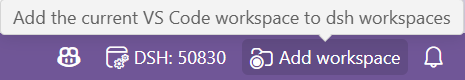
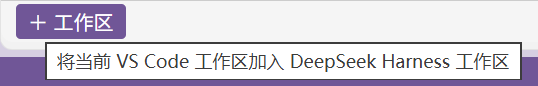
docs: 更换 README 截图、新增英文 README 与语言切换
- media/ 中 Add_workspace.png / DSH_port.png 更新为用户提供的新截图
- 新增 README.en.md（英文版全文）
- README.md（中文，默认展示）与英文版顶部互加语言切换链接：
  『中文 | English』/ 『中文 | English』

diff --git a/README.en.md b/README.en.md
@@ -1,0 +1,149 @@
+# DeepSeek Harness for VSCode Unofficial
+
+[中文](README.md) | **English**
+
+> ⚠ **Unofficial extension**: maintained by community developers, **not affiliated with DeepSeek AI or its official products**, and not published, endorsed, or supported by DeepSeek.
+
+An unofficial client that brings [DeepSeek Harness](https://github.com/deepseek-ai/deepseek-harness) (`dsh`, DeepSeek's open-source AI coding agent framework) into the VS Code sidebar.
+
+Two sidebar UIs (switch with `dsh.ui.mode`):
+
+- **embedded (default)**: embeds dsh's official Web UI in a sidebar iframe — full feature set
+- **native**: a custom chat UI built on the official JSON-RPC SDK — native VS Code feel
+
+## Quick Start
+
+### 1. Install
+
+Extensions panel → `...` → **Install from VSIX** → pick `dsh-vscode-0.1.0.vsix` from the [Releases](https://github.com/Mu-X-Yun/deepseek-harness-for-vscode-unofficial/releases) page.
+
+### 2. Open the Sidebar
+
+Click the **DSH whale icon** in the activity bar. The first launch auto-installs the dsh runtime and starts it (progress is shown; roughly a minute). Afterwards, Reload / restarts open instantly (the running dsh is reused).
+
+The status bar shows the dsh service state and port; click it to open the full UI in an external browser:
+
+![DSH status bar port](media/DSH_port.png)
+
+### 3. Configure the API Key
+
+Settings (`Ctrl+,`) → search `dsh.deepseekApiKey` → enter your DeepSeek API Key (or let the extension inherit `DEEPSEEK_API_KEY` from the host environment).
+
+### 4. Start Chatting
+
+Type a question in the sidebar to converse with the dsh agent (embedded mode gives the full official Web UI: sessions, tool calls, model selection, and more).
+
+**Add the current workspace to dsh workspaces**: click the **Add workspace** button in the sidebar footer to adopt the folder currently open in VS Code (sessions then belong to that workspace):
+
+![Add workspace button](media/Add_workspace.png)
+
+Other commands (Command Palette `Ctrl+Shift+P`):
+
+| Command | Description |
+|---|---|
+| `DSH: Open in Secondary Sidebar` | Open in the right-side secondary sidebar (both can be shown, state synced) |
+| `DSH: Open in browser` | Open the full UI in an external browser |
+| `DSH: Show server logs` | View dsh process and extension logs (troubleshooting) |
+| `DSH: Stop server` | Stop the dsh server |
+
+## Relationship with Official DeepSeek Harness (dsh)
+
+This extension is a **third-party VS Code client** for the official [DeepSeek Harness](https://github.com/deepseek-ai/deepseek-harness) (`dsh`, an MIT-licensed open-source project by DeepSeek AI):
+
+- **No official source code included or modified**: the extension contains no dsh code and applies no patches; dsh's source, copyright, and release belong to DeepSeek AI.
+- **How it drives dsh**: the extension starts the dsh installed on your machine (auto-installed, globally installed, or a source checkout) and drives it through public interfaces:
+  - **embedded mode**: spawns `dsh web` and embeds the official Web UI in a sidebar iframe (the UI itself is dsh's official UI)
+  - **native mode**: drives the dsh runtime via the official JSON-RPC SDK (`@deepseek-ai/dsh-sdk-client`)
+- **You provide**: a DeepSeek API Key (the dsh runtime can be auto-installed by the extension).
+- **Upstream dependency**: dsh is in developer preview (0.1.0-rc.x); upstream updates may change behavior and affect this extension — out of this project's control.
+
+## Getting the dsh Runtime (three options)
+
+`dsh.runtime.mode` decides where the dsh runtime comes from:
+
+| Mode | Description | Best for |
+|---|---|---|
+| `auto-install` (default) | First launch runs `npm install @deepseek-ai/dsh` into the extension storage; reused afterwards | Out-of-the-box (recommended) |
+| `installed` | **Auto-detects** an installed dsh: global install (`npm i -g @deepseek-ai/dsh`) or the npx cache (after running `npx @deepseek-ai/dsh web` once); `dsh.runtime.path` can override | Users who already have dsh |
+| `repo` | Runs from the `deepseek-harness-master` source checkout | Developing/debugging dsh itself |
+
+Default `auto-install` works for most users; switch to `installed` to reuse an existing dsh:
+```sh
+npm i -g @deepseek-ai/dsh   # then set dsh.runtime.mode: installed
+```
+
+> ℹ **Mode applicability**: `installed` / `auto-install` support **embedded mode** (the npm package runs `dsh web` fully; verified). **native mode** currently requires `repo` — the upstream npm package (`dsh-sdk-jsonrpc-demo`) does not bundle the cordis.yml plugin dependencies (llm-deepseek, agent-spine, etc.), so it cannot run standalone in npm form.
+
+## Settings
+
+| Setting | Default | Description |
+|---|---|---|
+| `dsh.deepseekApiKey` | (inherit env) | DeepSeek API Key, injected into the spawn environment |
+| `dsh.deepseekBaseUrl` | — | Optional custom endpoint; only honored from the process environment |
+| `dsh.runtime.mode` | `auto-install` | `auto-install` / `installed` (detect global/npx) / `repo` (source checkout) |
+| `dsh.runtime.path` | auto-detect | Absolute runtime path (repo checkout or a node_modules root containing dsh) |
+| `dsh.runtime.nodePath` | `node` (PATH) | Node executable used to spawn dsh. **Must be the system Node** (`process.execPath` points at Code.exe in the extension host, whose bundled node breaks tsx's tsconfig-paths resolution) |
+| `dsh.permissionMode` | `workspace-write` | Injected as `DSH_PERMISSION_MODE` |
+| `dsh.model` | `deepseek-v4-flash` | Default model for new sessions |
+| `dsh.ui.mode` | `embedded` | Sidebar UI: `embedded` (iframe) / `native` (custom chat UI) |
+
+## Prerequisites
+
+- VS Code `^1.85.0`
+- Node.js `^22.19 || >=24` (dsh's engine requirement)
+- pnpm (repo mode only: building dsh from source)
+
+## Known Limitations
+
+- dsh is in developer preview (0.1.0-rc.x); compatibility may change; the extension pins its version.
+- The embedded UI is dsh's own Web UI — its theme does not fully match VS Code (native mode addresses this).
+- The embedded iframe captures keyboard focus; some VS Code shortcuts are unavailable inside the chat area.
+- In native mode, `stopAgent` terminates and rebuilds the runtime (the protocol has no mid-turn cancel; in-flight progress is lost); session history after an extension restart is read-only (no session resume in the protocol).
+- Native mode has no interactive permission prompts (no permission-request method in the JSON-RPC protocol); under `dsh.permissionMode: workspace-write` dangerous commands are effectively denied — switch to `danger-full-access` to allow them.
+- The dsh process stays running after VS Code closes (so next start is instant); use `DSH: Stop server` to stop it manually.
+
+## Architecture Highlights
+
+- **Process ownership**: `dsh web` (embedded) and `dsh-jsonrpc-agent` (native) children are owned by the Extension Host and survive sidebar view disposal; **reused across Reloads** (state persisted to extension storage, health-checked for instant reuse); on Windows, teardown uses `taskkill /T /F` on the process tree.
+- **Readiness detection**: embedded mode parses dsh stdout for the `dsh web: http://127.0.0.1:<port>` ready line (`--port 0` = random port) instead of port polling.
+- **State sync**: host broadcast + webview ready handshake + 15s poll fallback — any lost state push self-heals.
+- **Embed security**: the iframe and the dsh service are same-origin (127.0.0.1), passing dsh's browser-trust fence; the server sets no CSP / X-Frame-Options, so embedding is not blocked.
+- **Key injection**: `DEEPSEEK_API_KEY` / `DEEPSEEK_BASE_URL` / `DSH_*` are injected only via the spawn environment — matching dsh's BOOTSTRAP constraints (forbidden from `.env`).
+- **Dependency fix**: npm sharp 0.35.3 is a broken release (binary fails to load); the extension pins 0.35.2 via npm overrides (auto-install handles it; installed mode detects and advises).
+- **Native runtime**: `dsh-jsonrpc-agent` launches from the repo via tsx (`node --import tsx/esm`); the generated cordis.yml lives in extension global storage, resolving plugins through a Windows junction to `examples/node_modules` (same mechanism as dsh's `healProfilesModuleFallback`).
+- **Native event stream**: `DeepSeekHarness` owns the subprocess; `HarnessClient.subscribe()` streams `session.event` / `session.status` / `subagent.*` notifications; the renderer follows the wire structure (envelope `data` field) with streaming folding, seq dedup, and compaction replay.
+
+## Development (repo mode)
+
+The extension runs dsh from the `deepseek-harness-master/` source checkout (auto-detected as a sibling directory of the extension; `dsh.runtime.path` can override):
+
+```sh
+# 1. Prepare the dsh source once
+cd deepseek-harness-master
+pnpm install
+pnpm run build:lib:host && pnpm run build:lib:client   # or pnpm run build
+pnpm run build:web          # produces apps/web/dist; dsh fails to start without it
+
+# 2. Install and launch the extension (F5, Extension Development Host)
+cd dsh-vscode
+npm install
+npm run watch               # esbuild watch (launch.json's preLaunchTask runs it)
+```
+
+## Testing
+
+```sh
+npm test    # vitest: renderer/parser/runtime-detection unit tests + SDK handshake + real-chat e2e (skipped without a key)
+```
+`tests/native-chat.e2e.spec.ts` runs a full conversation against the real API (requires the `DEEPSEEK_API_KEY` environment variable).
+
+## Packaging
+
+```sh
+npm run package    # esbuild build + vsce package → dsh-vscode-0.1.0.vsix
+```
+The VSIX does not bundle the dsh runtime (`auto-install` mode installs it into the extension storage on first launch).
+
+## License
+
+[MIT](LICENSE) — this project (the extension itself) is an independent open-source project. Note: DeepSeek Harness (`dsh`) is an MIT-licensed project by [DeepSeek AI](https://github.com/deepseek-ai/deepseek-harness); this extension is merely its external driver client and contains none of its source.

diff --git a/README.md b/README.md
@@ -1,5 +1,7 @@
 # DeepSeek Harness for VSCode Unofficial
 
+**中文** | [English](README.en.md)
+
 > ⚠ **非官方插件**：本项目由社区开发者维护，**与 DeepSeek AI 及其官方产品没有任何关联**，非 DeepSeek 官方发布、认可或支持。
 
 在 VS Code 侧边栏中使用 [DeepSeek Harness](https://github.com/deepseek-ai/deepseek-harness)（`dsh`，DeepSeek 官方的 AI 编程代理框架）的非官方客户端。
